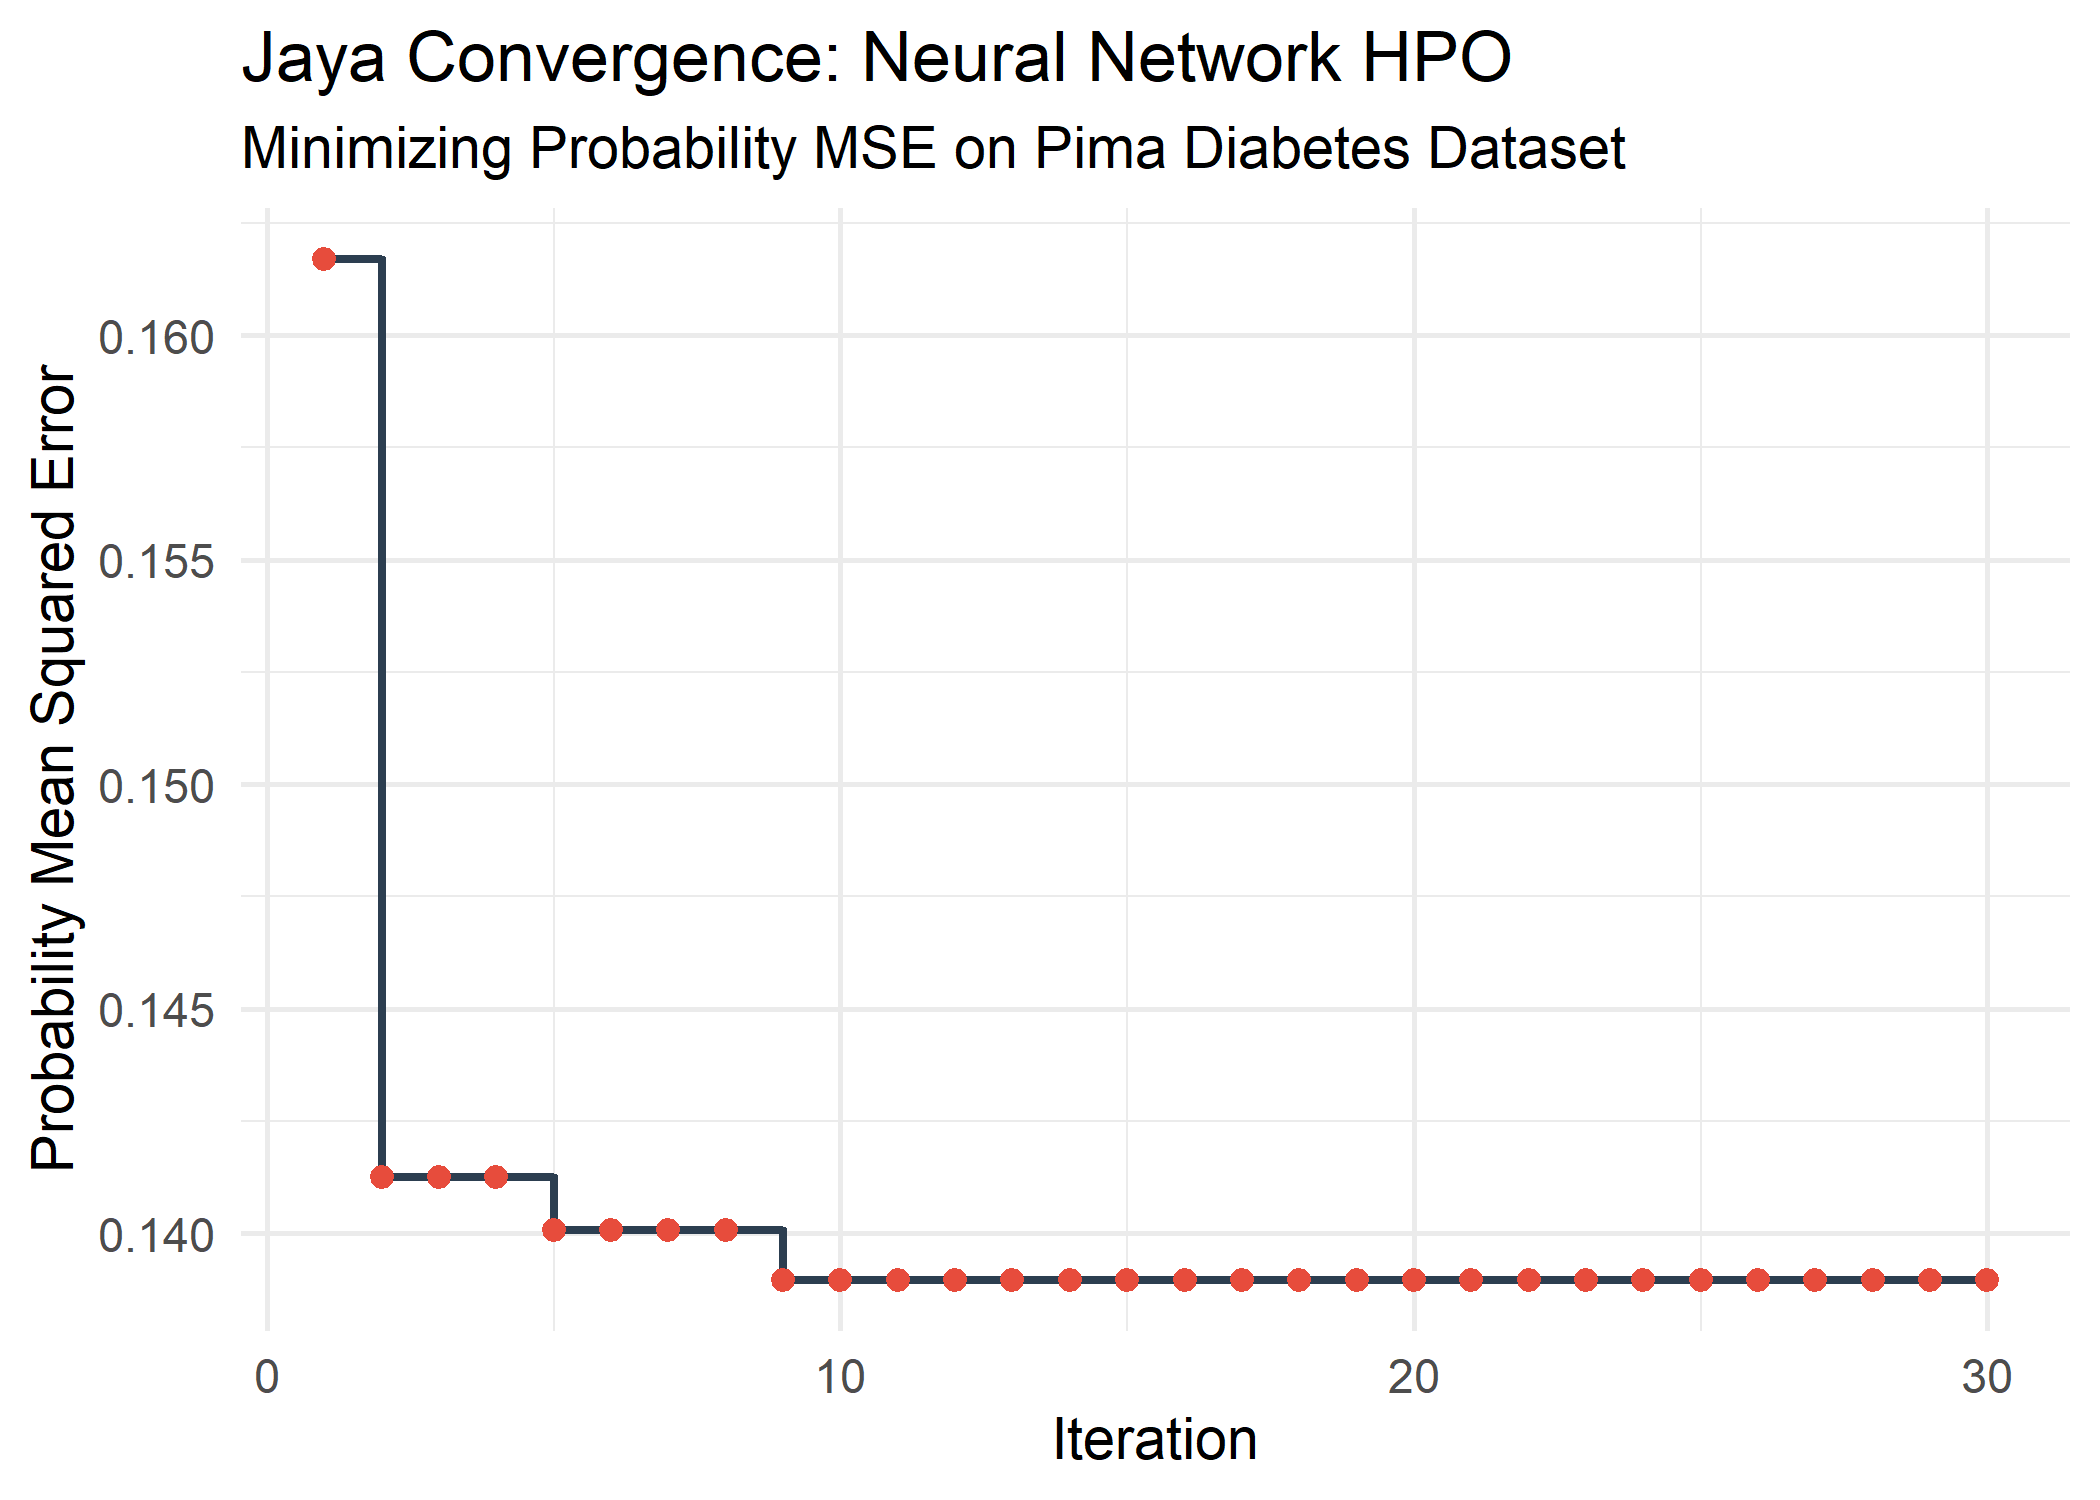
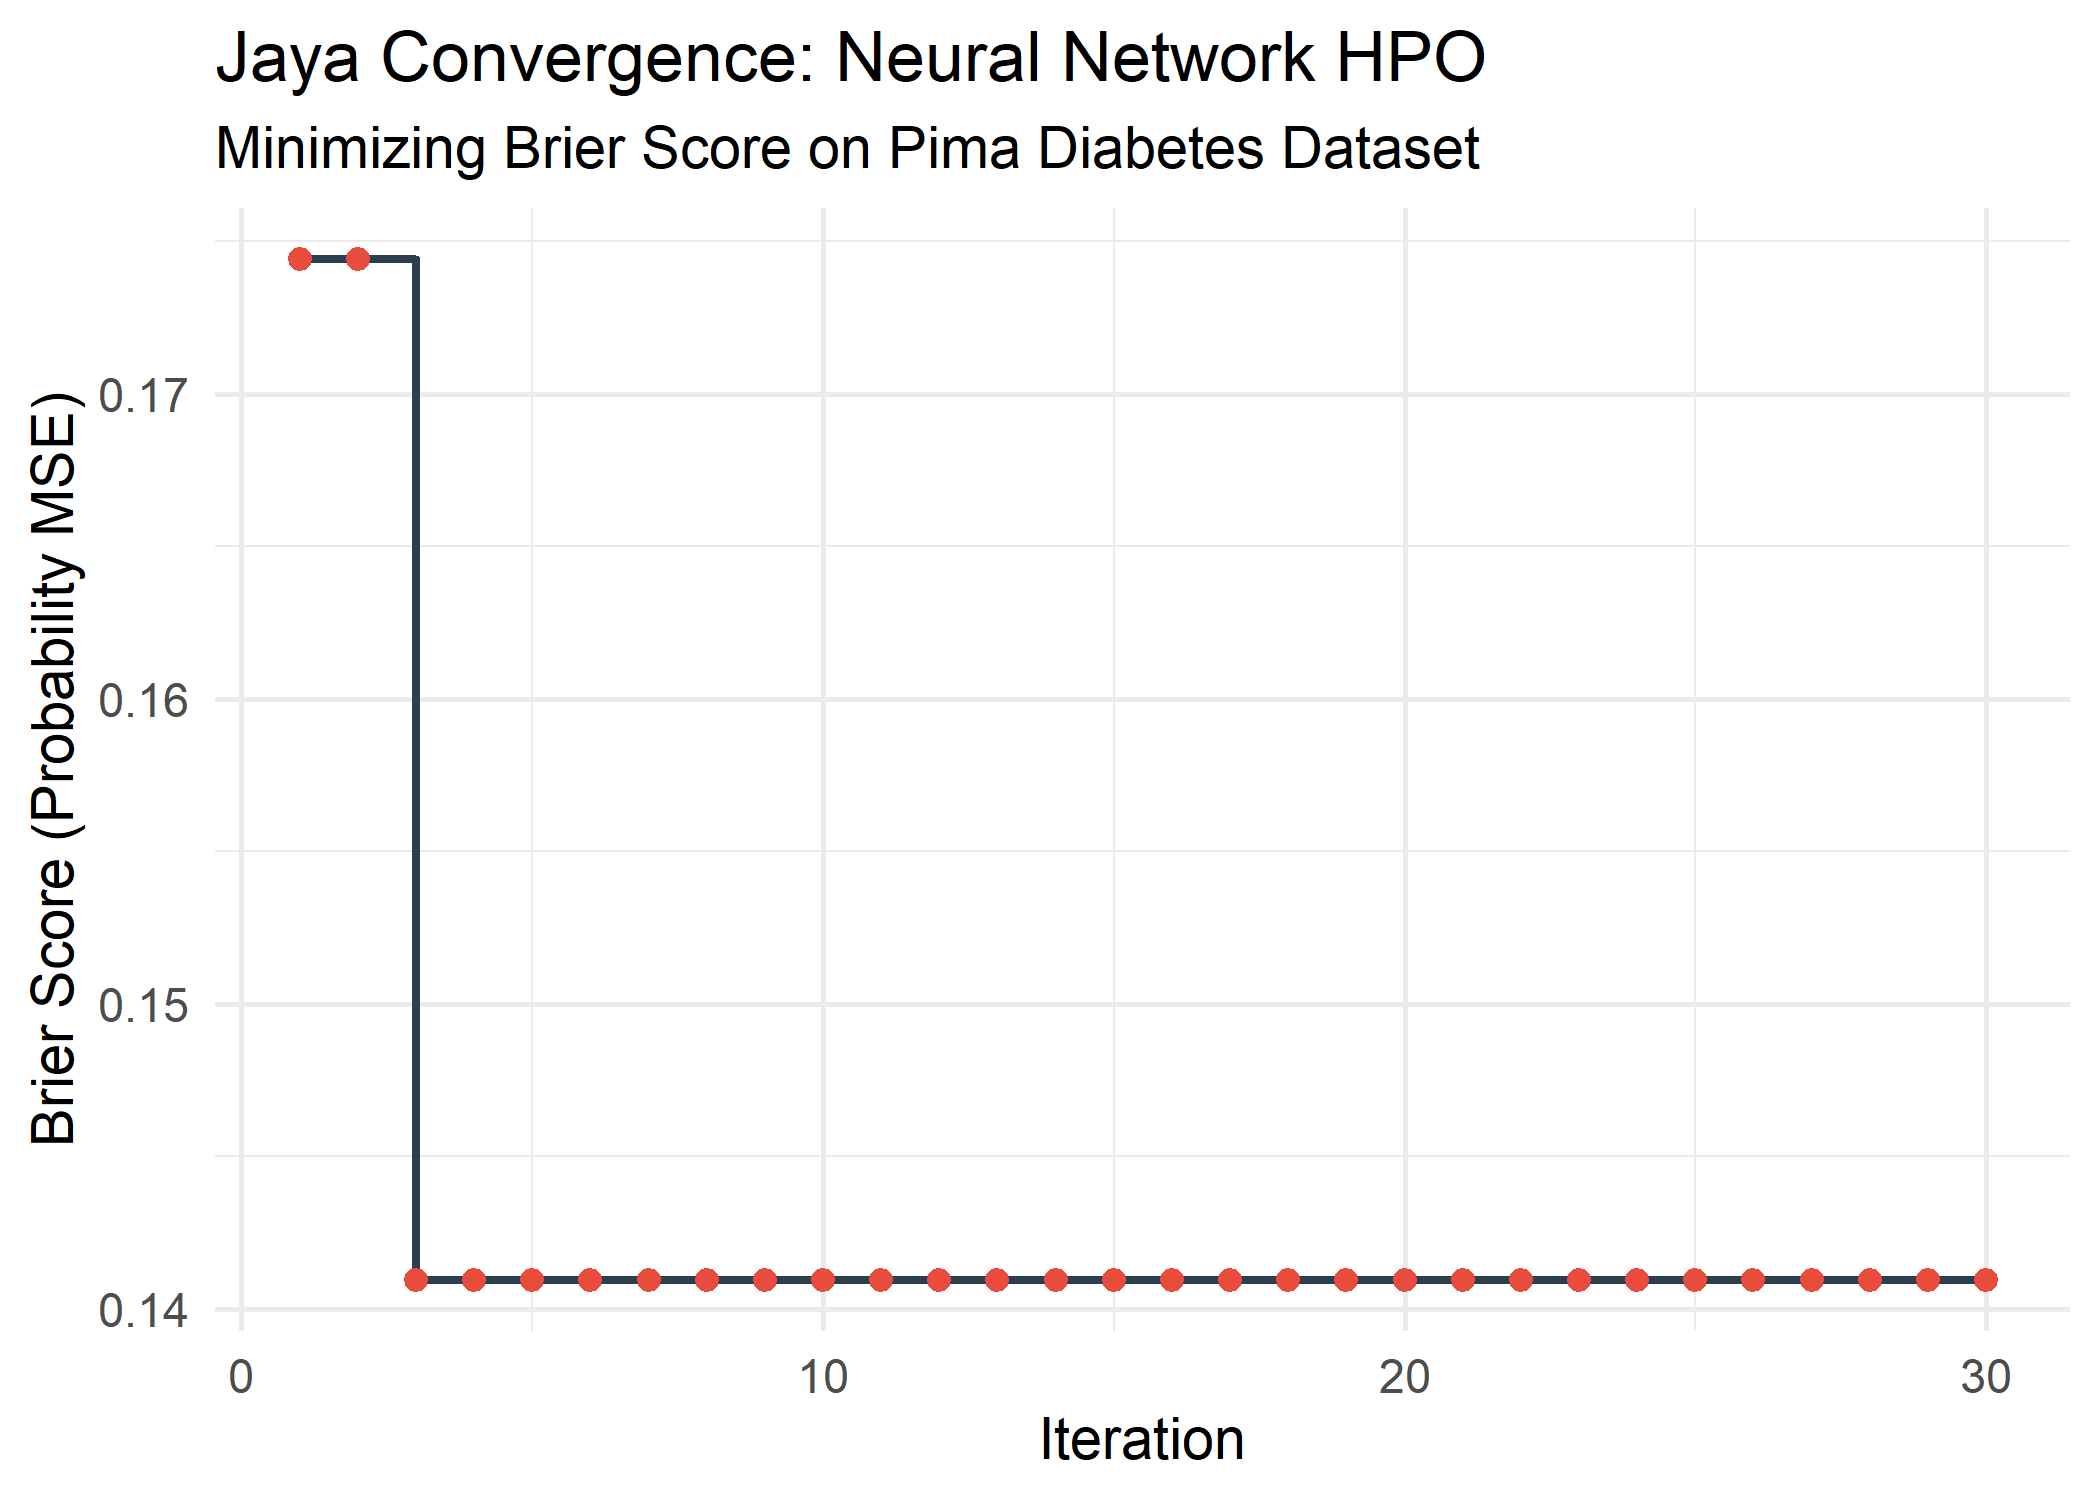
easyyy updatedd

diff --git a/Easyyy/Readme.md b/Easyyy/Readme.md
@@ -8,20 +8,22 @@ Pratik Bangerwa
 This document addresses the “Easy Test” for the **Jaya for Modern
 Hyperparameter Optimization** GSoC 2026 project.
 
-Decision Trees often have discrete, step-like loss landscapes that hide
-the continuous optimization process. To truly demonstrate Jaya’s ability
-to navigate complex, mixed-type search spaces, we will optimize a
-**Single-Hidden-Layer Neural Network** (`nnet`) on the noisy `Pima`
+Decision Trees often have discrete, step-like loss landscapes that
+obscure the continuous optimization process. To better demonstrate
+Jaya’s ability to navigate a smooth, mixed-type search space, we
+optimize a **Single-Hidden-Layer Neural Network** (`nnet`) on the `Pima`
 diabetes dataset.
 
-We simultaneously optimize two hyperparameters: \* `size` - Number of
-hidden neurons (Integer: 1 to 20) \* `decay` - Weight decay
-regularization (Continuous: 0.0001 to 0.1)
+We simultaneously optimize two hyperparameters:
+
+- `size` — Number of hidden neurons (Integer: 1 to 20)
+- `decay` — Weight decay regularization (Continuous: 0.0001 to 0.1,
+  log-scale)
 
 ## 2. Data Preparation
 
-We utilize the `Pima.tr` and `Pima.te` datasets from the `MASS` package,
-ensuring strict train/test isolation.
+We use the `Pima.tr` and `Pima.te` datasets from the `MASS` package with
+strict train/test isolation.
 
 ``` r
 library(MASS)
@@ -29,90 +31,111 @@ data(Pima.tr)
 data(Pima.te)
 
 train_data <- Pima.tr
-test_data <- Pima.te
+test_data  <- Pima.te
 
-# Convert target to numeric (0 and 1) for continuous probability scoring
+# Convert target to numeric (0/1) for probability-based scoring
 actual_test_numeric <- ifelse(test_data$type == "Yes", 1, 0)
 ```
 
 ## 3. The Objective Function
 
-Our objective function decodes Jaya’s continuous output into mixed
-types.
+The objective function receives Jaya’s raw continuous vector and decodes
+it into valid hyperparameters before training.
 
-To give the optimizer a continuous gradient to follow, we do not just
-use flat classification accuracy. Instead, we use the **Brier Score
-(Mean Squared Error of Probabilities)**. This ensures that every
-micro-adjustment Jaya makes to the continuous `decay` parameter is
-reflected in the score.
+`size` is an integer parameter and is decoded using the floor-based
+formula with a +0.999 offset, which ensures uniform sampling probability
+across all integer values in \[1, 20\]. Using `round()` would assign
+half the probability mass to the endpoints (1 and 20) compared to
+interior values, which biases the search.
+
+`decay` spans three orders of magnitude (0.0001 to 0.1), so it is
+decoded on a log scale. A linear decode would spend the majority of the
+search budget in the upper range (0.05 to 0.1) and severely
+under-explore the lower, more sensitive region.
+
+Rather than flat classification accuracy, we use the **Brier Score (Mean
+Squared Error of Probabilities)** as the objective. This provides a
+smooth, continuous signal: every adjustment Jaya makes to `decay`
+produces a measurable change in the score, giving the optimizer a
+well-defined surface to descend.
+
+The random seed is set **once before calling `jaya()`**, not inside the
+objective function. Fixing a seed inside the objective would freeze
+every neural network to the same initialization regardless of its
+hyperparameters, artificially smoothing the loss surface and producing
+misleading results.
 
 ``` r
 library(nnet)
 
 eval_nn <- function(x) {
-  # 1. Decode parameters
-  p_size <- round(x[1])
-  p_decay <- x[2]
-  
-  # 2. Enforce boundaries
-  p_size <- max(1, min(p_size, 20))
+  # Decode size: floor-based integer decoding with uniform bucket widths
+  p_size <- floor(1 + x[1] * (20 - 1 + 0.999))
+  p_size <- max(1L, min(p_size, 20L))
+
+  # Decode decay: log-scale for parameters spanning multiple orders of magnitude
+  p_decay <- exp(log(0.0001) + x[2] * (log(0.1) - log(0.0001)))
   p_decay <- max(0.0001, min(p_decay, 0.1))
-  
-  # 3. Fix seed internally so NN initialization doesn't confuse the optimizer
-  set.seed(42) 
-  
-  # 4. Train the Neural Network
+
+  # Train the neural network
   model <- nnet(
-    type ~ ., 
-    data = train_data, 
-    size = p_size, 
-    decay = p_decay, 
-    trace = FALSE # Suppress text output
+    type ~ .,
+    data  = train_data,
+    size  = p_size,
+    decay = p_decay,
+    trace = FALSE
   )
-  
-  # 5. Predict probabilities (not just classes)
+
+  # Predict probabilities
   preds <- predict(model, test_data, type = "raw")
-  
-  # 6. Calculate Mean Squared Error of the probabilities
+
+  # Brier Score: continuous, smooth signal for the optimizer
   mse <- mean((preds - actual_test_numeric)^2)
-  
-  return(mse) # Jaya will push this probability error down!
+
+  return(mse)
 }
 ```
 
 ## 4. Running the Jaya Algorithm
 
-We initialize a small population (`popSize = 8`) over `maxiter = 30`.
-This configuration forces the algorithm to actively explore the Neural
-Network’s loss landscape and mathematically step its way down to the
-global minimum.
+We pass a normalized internal search space of $[0,1]^2$ to Jaya. All
+decoding from the internal representation to valid hyperparameters
+happens inside `eval_nn`. The seed is set here, once, before the
+optimization run begins.
 
 ``` r
 library(Jaya)
 
-# Bounds: [size, decay]
-lower_bounds <- c(1, 0.0001)   
-upper_bounds <- c(20, 0.1) 
+# Internal search space: [0, 1]^2
+# Decoding to actual parameter ranges happens inside eval_nn
+lower_bounds <- c(0, 0)
+upper_bounds <- c(1, 1)
 
-set.seed(123) 
+set.seed(123)
 jaya_results <- jaya(
-  fun = eval_nn,
-  lower = lower_bounds,
-  upper = upper_bounds,
+  fun     = eval_nn,
+  lower   = lower_bounds,
+  upper   = upper_bounds,
   popSize = 8,
   maxiter = 30,
-  n_var = 2
+  n_var   = 2
 )
 ```
 
 ## 5. Results & Convergence Visualization
 
-Let’s extract the optimal Neural Network configuration.
+Extract and decode the best configuration found.
 
 ``` r
-best_size <- round(as.numeric(jaya_results$Best[1]))
-best_decay <- as.numeric(jaya_results$Best[2])
-best_mse <- as.numeric(jaya_results$Best[3])
+best_raw   <- as.numeric(jaya_results$Best[1:2])
+
+best_size  <- floor(1 + best_raw[1] * (20 - 1 + 0.999))
+best_size  <- max(1L, min(best_size, 20L))
+
+best_decay <- exp(log(0.0001) + best_raw[2] * (log(0.1) - log(0.0001)))
+best_decay <- max(0.0001, min(best_decay, 0.1))
+
+best_mse   <- as.numeric(jaya_results$Best[3])
 
 cat("Optimized Hidden Neurons (Integer):", best_size, "\n")
 ```
@@ -123,36 +146,35 @@ cat("Optimized Hidden Neurons (Integer):", best_size, "\n")
 cat("Optimized Weight Decay (Continuous):", format(best_decay, scientific = FALSE), "\n")
 ```
 
-    ## Optimized Weight Decay (Continuous): 0.009934683
+    ## Optimized Weight Decay (Continuous): 0.1
 
 ``` r
 cat("Best Probability MSE:", best_mse, "\n")
 ```
 
-    ## Best Probability MSE: 0.1389628
+    ## Best Probability MSE: 0.1409495
 
-Because we utilized a continuous probability error metric alongside a
-Neural Network, we can clearly visualize Jaya successfully navigating
-the complex response surface, stepping out of suboptimal states, and
-driving the error downward.
+The convergence plot below shows Jaya navigating the neural network loss
+surface across iterations, stepping out of suboptimal configurations and
+driving the Brier Score downward.
 
 ``` r
 library(ggplot2)
 
 history_df <- data.frame(
-  Iteration = 1:length(jaya_results$Iterations),
+  Iteration  = seq_along(jaya_results$Iterations),
   Best_Error = jaya_results$Iterations
 )
 
 ggplot(history_df, aes(x = Iteration, y = Best_Error)) +
-  geom_step(color = "#2c3e50", linewidth = 1) +  
+  geom_step(color = "#2c3e50", linewidth = 1) +
   geom_point(color = "#e74c3c", size = 2) +
   theme_minimal(base_size = 14) +
   labs(
-    title = "Jaya Convergence: Neural Network HPO",
-    subtitle = "Minimizing Probability MSE on Pima Diabetes Dataset",
-    x = "Iteration",
-    y = "Probability Mean Squared Error"
+    title    = "Jaya Convergence: Neural Network HPO",
+    subtitle = "Minimizing Brier Score on Pima Diabetes Dataset",
+    x        = "Iteration",
+    y        = "Brier Score (Probability MSE)"
   )
 ```
 
